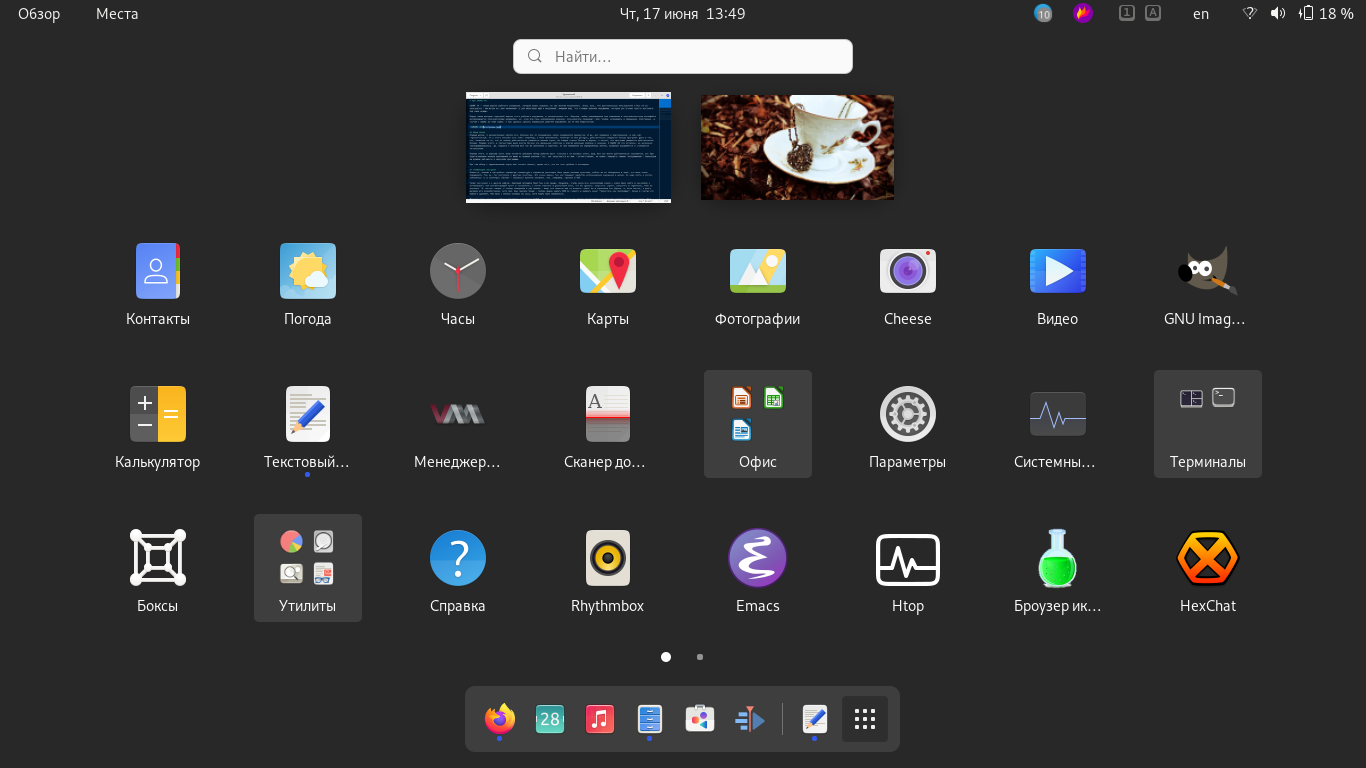
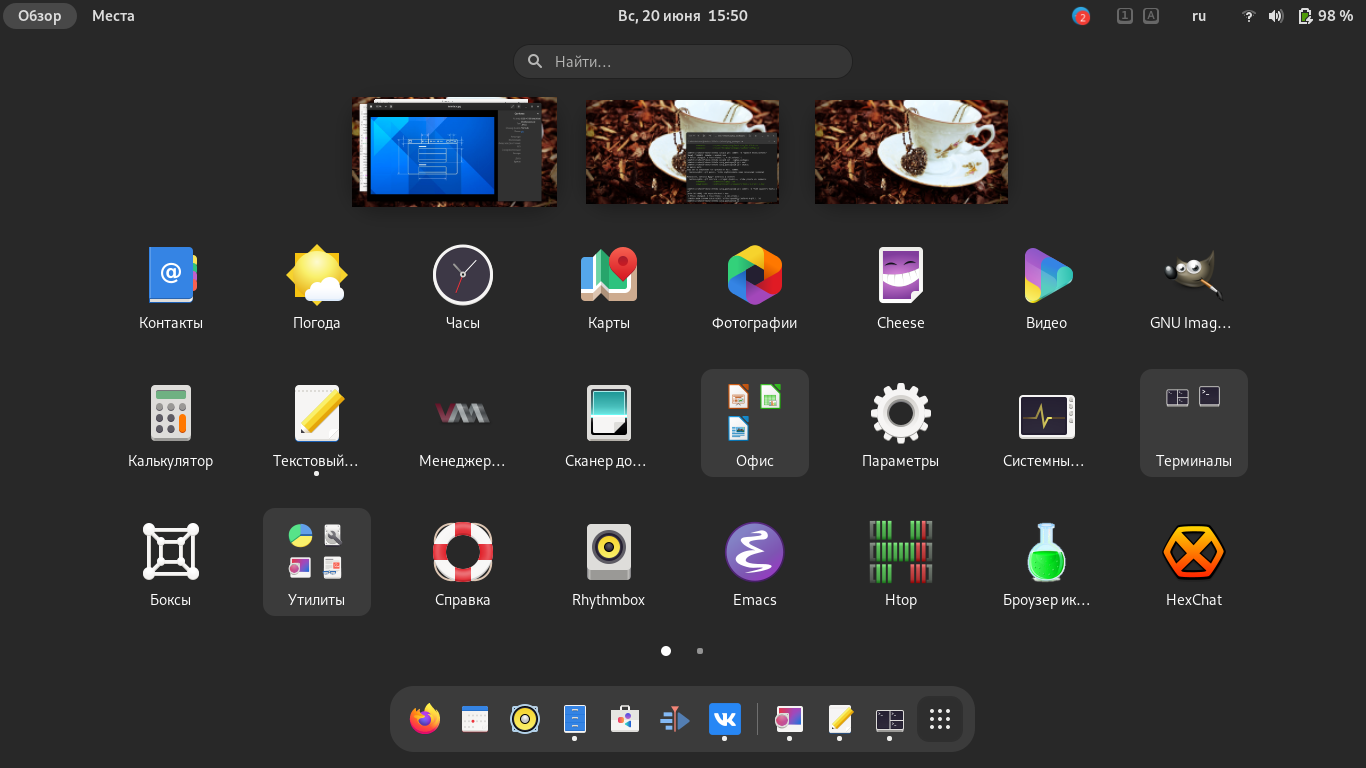
Различные дополнения и исправления статьи о GNOME 40; исправления статей о строении Linux; добавление раздела о сотрудничестве; добавление информации о пользователях

diff --git a/stats/GNOME/gnome.md b/stats/GNOME/gnome.md
@@ -2,12 +2,13 @@
 
 GNOME 40 - новая версия рабочего окружения, которая вышла недавно, но уже многим понравилась. Очень жаль, что русскоязычные пользователи Linux ей не пользуются - несмотря на свой необычный (а для некоторых ещё и неудобный) внешний вид, это стоящее рабочее окружение, которое достаточно просто настроить под свои нужды.
 
-Перед самым выходом сороковой версии этого рабочего окружения, я раскритиковал его. Впрочем, любые нововведения или изменения в пользовательском интерфейсе воспринимаются пользователями враждебно, но, если всё-таки нововведение удачное, пользователи прерывают свой галдёж, освоившись и привыкнув. Собственно, в случае с GNOME 40 тоже самое. У них удалось сделать нормальное рабочее окружение, но не без недостатков.
+Перед самым выходом сороковой версии этого рабочего окружения, я раскритиковал его. Впрочем, любые нововведения или изменения в пользовательском интерфейсе воспринимаются пользователями враждебно, но, если всё-таки нововведение удачное, пользователи прерывают свой галдёж, освоившись и привыкнув. Они привыкают к чему-то одному, а большего им и не надо. Собственно, в случае с GNOME 40 тоже самое. У них удалось сделать нормальное рабочее окружение, но не без недостатков.
 
 ![GNOME 40](pic/gnome.jpg)
 
 ## Меню "Обзор"
-Первым делом, я раскритиковал именно его. Сначала мне не понравилась смена направления прокрутки. И да, все привыкли к вертикальной, а нам суют горизонтальную. Но у этого способа есть плюс: например, в меню приложений, несмотря на мои догадки, действительно умещается больше программ. Дело в том, что, несмотря на то, что на экране действительно умещается меньше строк, но каждая строка больше в ширину, а значит, что программ умещается действительно больше. Помимо этого, в третьегноме меня всегда бесили эти маленькие короткие и всегда урезаные подписи к значкам. В GNOME 40 это осталось, но несколько трансформировалось. Да, подписи к значкам всё такие же урезанные и короткие, но при наведении на определённый значок, название расширяется и становится читабельным.
+
+Первым делом, я раскритиковал именно его. Сначала мне не понравилась смена направления прокрутки. И да, все привыкли к вертикальной, а нам суют горизонтальную. Но у этого способа есть плюс: например, в меню приложений, несмотря на мои догадки, действительно умещается больше программ. Дело в том, что, несмотря на то, что на экране действительно умещается меньше строк, но каждая строка больше в ширину, а значит, что программ умещается действительно больше. Например, на экране 1366х768 сетка меню получилась 3х8. Помимо этого, в третьегноме меня всегда бесили эти маленькие короткие и всегда урезаные подписи к значкам. В GNOME 40 это осталось, но несколько трансформировалось. Да, подписи к значкам всё такие же урезанные и короткие, но при наведении на определённый значок, название расширяется и становится читабельным.
 
 ![Иконки](pic/icon.png)
 *Вверху иконка до того, как на неё навели мышкой, внизу - после*
@@ -18,7 +19,7 @@ GNOME 40 - новая версия рабочего окружения, кото
 
 Про сам обзор с переключением задач мне сказать нечего, кроме того, что он стал удобнее и нагляднее. Как и раньше, в обзоре находятся превью открытых окон. Но теперь это не обзор открытых задач, а обзор всех рабочих мест! Переключение между рабочими местами стало намного удобнее - не нужно лезть в боковое меню с ними, чтобы увидеть, какие программы располагаются на нём. Достаточно прокрутить влево или вправо и всё становится видно. Отображается непрерывная лента рабочих мест, на которых расположены превью открытых окон. В нижней части превью расположили иконку приложения (внизу посередине), а при наведении на окно оно немного увеличивается в размерах и внизу показывается его имя.
 
-![Обзор активности](pic/menu1.png)
+![Обзор активности](pic/activities1.png)
 
 ## Унификация настроек
 Помнится, раньше в настройках параметры клавиатуры и параметры раскладки были двумя разными пунктами, сейчас же их объединили в один, что меня очень порадовало. Так же, так поступили с другими пунктами. Это очень важно, так как повышает удобство использования окружения в целом. Не надо лазить в сотнях непонятных (а в некоторых случаях - ненужных) пунктов настроек, как, например, сделано в KDE.
@@ -33,14 +34,20 @@ GNOME 40 - новая версия рабочего окружения, кото
 
 Хотя и то, что разработчики GNOME "прячут" от пользователей банальные настройки смены темы оформления (к примеру) ещё с третьей версии этого DE - это огорчает. Например, они же разрабатывают тему оформления Adwaita в двух расцветках - светлой и тёмной (Adwaita и Adwaita Dark соответственно). Так почему бы в настройки не добавить пункт, предположим, "Тема оформления", где поместить переключалку между светлой и тёмной темами? Хотя бы только это, я не говорю про что, что установил пользователь... И было бы намного лучше. Но, видимо, им этого не понять.
 
+> Кстати, в Ubuntu Linux так сделали. Вот это очень неплохо. Хотя сам дистрибутив мне не нравится.
+
 ## Современный внешний вид и опыт взаимодействия человека с рабочим окружением
 
 ![https://blogs.gnome.org/tbernard/2021/03/22/drawing-mockups/](pic/interface.jpg)
 *Изображение было взято [отсюда](https://blogs.gnome.org/tbernard/2021/03/22/drawing-mockups/)*
 
-Разработчики GNOME с неваднего времени начали "осовременнивать" внешний вид окружения. То обновят тему иконок: в GNOME 3.36 ещё встречались иконки со второго гнома, а в 3.38 иногда проскакивали иконки с первых версий GNOME 3, но в сороковом произвели серьёзный редизайн и всё выглядит так, как и должно быть. Единственное - не нравятся жирный шрифт и жирные иконки в панели управления системой, жирные иконки заголовков и боковых панелей окон. На мой взгляд, это ужасно. Кстати, я предпочитаю тему Yary-remix (найдите её в [интернете](www.google.com)), там всё нормально)).
+Разработчики GNOME с неваднего времени начали "осовременнивать" внешний вид окружения. То обновят тему иконок: в GNOME 3.36 ещё встречались иконки со второго гнома, а в 3.38 иногда проскакивали иконки с первых версий GNOME 3, но в сороковом произвели серьёзный редизайн и всё выглядит так, как и должно быть. Конечно, местами дизайн ещё напоминает старый, например, список устройств в меню "Другие места", но это встречается всё реже и реже, да и привести огромную махину к одному знаменателю довольно сложно, учитывая ещё то, что рабочим окружением GNOME занимается сообщество, а не какие-то большие корпорации.
 
-Насчёт фона в меню обзора. Тут очен спорно - с одной стороны, на это редко когда смотришь, да и привык я к этому очень быстро, а вот с другой - это скучно. Хотя в обзор я захожу редко, да и привык к этому, поэтому мне на это пофигу. В любом случае, фон можно или заблюрить, или сделать полностью прозрачным (расширение Blur My Shell в помощь).
+![Nautilus](pic/nautilus.md)
+
+Так же не нравятся жирный шрифт и жирные иконки в панели управления системой, жирные иконки заголовков и боковых панелей окон. На мой взгляд, это ужасно. Хотя это ИМХО - кому-то нравится, кому-то нет. Кстати, я предпочитаю тему Yary-remix (найдите её в [интернете](www.google.com)), там всё нормально)).
+
+Насчёт фона в меню обзора. Тут очен спорно - с одной стороны, на это редко когда смотришь, да и привык я к этому очень быстро, а вот с другой - это скучно. Хотя в обзор я захожу редко, да и привык к этому, поэтому мне на это пофигу. В любом случае, фон можно или заблюрить, или сделать полностью прозрачным (расширение Blur My Shell в помощь). А так как "мода всегда возвращается", то неудивительно, что убрали фон. Если раньше все делали всё тёмным и непрозрачным, а с середины двухтысячных наоборот - всё свистит, пердит и переливается, то сейчас всё становится так, как раньше.
 
 Но "современный" - не значит удобный и красивый. Интерфейс некоторых приложений стал ещё хуже. Например, Gnome Weather. Раньше было прекрасное красивое приложение. А сейчас какое-то унылое говно.
 
@@ -57,17 +64,19 @@ GNOME 40 - новая версия рабочего окружения, кото
 Ну и расположение дока. Оно, конечно, логично и предсказуемо - если сменили направление прокрутки в "обзоре" на горизонтальную, то док должен быть именно снизу экрана и иметь горизонтальное расположение. Но это не очень удобно, так как нужно тянуться из верхнего левого угла экрана (где вход в "Обзор") почти в правый нижний, где вход в меню. Владельцам ноутбуков это не очень удобно. Хотя можно поступить проще: на любой вкус несколько сочетаний клавиш для входа в меню. Тут и два раза нажать на *Super*, и *Super+A*, и *Super+Alt+2 раза на стрелку вверх*...
 
 ## Надёжность
-GNOME 40, на удивление, оказался очень надёжным. Никаких падений и отчётов. Кроме единоразового падения `gjs`, но это вызвало пару проблем с одним из расширений. И даже предварительные версии GNOME 40 порадовали своей стабильной работой.
+GNOME 40, на удивление, оказался очень надёжным. Никаких падений и отчётов. Кроме единоразового падения `gjs`, но это вызвало пару проблем с одним из расширений (Desktop Icons NG). И даже предварительные версии GNOME 40 порадовали своей стабильной работой.
 
 Помимо этого, рабочее окружение работает достаточно быстро даже на оборудовании 2013 года. Хотя там железо довольно бодрое и на 2021 год, но всё равно я считаю это неплохим результатом. Если сравнивать с предыдущими версиями - была проведена отличная работа по чистке кода от неиспользуемых конструкций, багов и прочего говна, а так же проведена неплохая оптимизация. И GNOME с версии 3.36 только хорошеет в плане быстрой работы и малого потребления ОЗУ.
 
 ![О системе](pic/about-system.png)
 
-А сейчас у меня отпуск, и ноутбук на даче не выключается часами. Работает или от АКБ, или от зарядки (кстати, от АКБ на Fedora Linux не очень долго держится - каких-то два часа). Даже тогда, когда меня нет дома. Хотя когда я прихожу домой, то ноут активно используется. И опять же - падений рабочего окружения я не заметил, чего не скажешь о KDE. Помню, они кукарекали всё, мол, мы такие молодцы и спёрли у GNOME 3.30 адаптивную прозрачность панелей. Я этого не заметил. А настройки как были непонятным и запутанным куском говна, так и остались. А проблемы стабильности и надёжности их мало интересуют, видимо.
+А сейчас у меня отпуск, и ноутбук на даче не выключается часами. Работает или от АКБ, или от зарядки (кстати, от АКБ на Fedora Linux не очень долго держится - каких-то два часа). Даже тогда, когда меня нет дома. Хотя когда я прихожу домой, то ноут активно используется. И опять же - падений рабочего окружения я не заметил, чего не скажешь о KDE. Всё так же падает.
+
+Помню, они кукарекали всё, мол, мы такие молодцы и спёрли у GNOME 3.30 адаптивную прозрачность панелей. Я этого не заметил. А настройки как были непонятным и запутанным куском говна, так и остались. А проблемы стабильности и надёжности их мало интересуют, видимо.
 
 ![Аптайм](pic/uptime.png)
 
-Но, буквально в день написания статьи, появилась проблема с изменением размера окна. Очень дёрганые анимации разворачивания и возвращения в исходный размер окна. Это возникает с Nautilus и Gedit - две этих программы я использую чаще всего. Никаких логов и прочего нет и узнать, что случилось, невозможно. Хотя я подозреваю, что что-то с конфигами - на другом пользователе этой проблемы нет.
+Но, буквально в день написания статьи, появилась проблема с изменением размера окна. Очень дёрганые анимации разворачивания и возвращения в исходный размер окна. Это возникает с Nautilus и Gedit - две этих программы я использую чаще всего. Никаких логов и прочего нет и узнать, что случилось, невозможно. Хотя я подозреваю, что что-то с конфигами - на другом пользователе этой проблемы нет. С остальными же программами всё нормально. Это проявляется на устаревшем и ненужном Xorg, на Wayland всё отлично.
 
 ## Выводы
 Рабочее окружение GNOME Shell 40 мне понравилось. Несмотря на недостатки, оно намного лучше третьей версии. Разработчики провели большую работу не только над портированием GNOME на GTK4, но и добавили новые функции. Да и привели рабочее окружение в нормальное состояние.
@@ -80,6 +89,6 @@ GNOME 40, на удивление, оказался очень надёжным.
 
 Недостатки:
 * некоторые расширения перестали работать, впрочем, их портирование на GNOME 40 - дело времени
-* у некоторых приложений со временем возникают проблемы с эффектами разворачивания и возвращения в предыдущее состояние окна
+* у некоторых приложений со временем возникают проблемы с эффектами разворачивания и возвращения в предыдущее состояние окна на Xorg
 
 Удачи!

diff --git a/Group/calmira.md b/Group/calmira.md
@@ -3,11 +3,11 @@
 Усилиями нашего сообщества разрабатывается Calmira GNU/Linux.
 
 Это легковесный независимый дистрибутив со своей пакетной базой.
-Пакетный менеджер `cpkg`, пришедший на смену менее надёжному и простому `cpkg-tools`, находится пока в зачаточном состоянии.
+Пакетный менеджер `cpkg`, пришедший на смену менее надёжному и простому `cpkg-tools`, находится на стадии бета-тестирования.
 
 Главная особенность дистрибутива - его малый размер и неприхотливость. Для работы ему будет достаточно процессора Intel Atom, оперативной памяти объёмом от 30 Мб и жёсткого диска от 2-3 Гб.
 
-Пакетный менеджер `cpkg` (релиз Calmira 2021.2), пришедший на смену `cpkg-tools` из релиза Calmira 2021.1, содержит множество изменений. Тут и более стабильная работа, и хорошая работа с зависимостями, а так же меньшая разрозненность. Установка и удаление ПО теперь следует одним и тем же правилам.
+Пакетный менеджер `cpkg` (релиз Calmira 2021.2) содержит множество изменений. Тут и более стабильная работа, и хорошая работа с зависимостями, а так же меньшая разрозненность. Установка и удаление ПО теперь следует одним и тем же правилам.
 
 ## Идеология, следование принципам
 Дистрибутив старается следовать стандартам FHS и LSB в первую очередь. Помимо этого, дистрибутив следует принципу KISS. В Calmira всё решает пользователь. Как ставить, куда ставить и что ставить. Как пользоваться дистрибутивом. Так же вы можете без каких-либо проблем делать сборки на основе Calmira.
@@ -20,16 +20,15 @@
 sudo mkdir /mnt/calmira           # Создание точки монтирования
 sudo mount /dev/sdX /mnt/calmira  # Монтирование раздела
 export SYSTEM=/mnt/calmira
-cd $SYSTEM
 ```
 
 Потом распакуйте образ с системой:
 ```bash
-sudo unsquashfs /путь/до/образа/calmira_$VERSION_$BUILD.sqsh
+sudo unsquashfs /путь/до/образа/calmira_$VERSION.sqsh
+cp -rv squashfs-root/* $SYSTEM
 ```
 
 * `$VERSION` - версия дистрибутива
-* `$BUILD` - версия билда дистрибутива
 
 > Например, `calmira_2021.2_build2.sqsh`.
 
@@ -43,10 +42,8 @@ sudo unsquashfs /путь/до/образа/calmira_$VERSION_$BUILD.sqsh
 |:-------|:------------|:----------|:------------|
 | 2021.1 | Orion       | ---       | 28.05.2021  |
 | 2021.2 | Andromeda   | замена `cpkg-tools` на `cpkg`, пересборка `gmp`, добавление новых функций | 28.05.2021 |
-| 2021.3 | Andromeda   | добавление в пакетный менеджер `cpkg` новых фукций, таких как сборка пакета из исходников, очистка кеша, скачивание пакета из исходных текстов; повышение стабильности как пакетного менеджера, так и дистрибутива в целом | Запланоровано на конец 2021 |
-| 2022.1 | Cassiopeia  | добавление опциональных бинарных пакетов, повышение стабильности, улучшение пакетного менеджера `cpkg`, добавление `SysConf` для настройки системы и некоторых пакетов (аналог `dpkg-reconfigure` из Debian), возможность обновления системы посредством пакетного менеджера (раньше была возможность пересборки пакетов или установки бинарных, но не обновление пакетным менеджером) | Запланировано на 2022 г. (дата не определена)|
-
-[Road Map](https://github.com/Linuxoid85/CalmiraLinux/blob/2021.2/docs/roadmap.md)
+| 2021.3 | Andromeda   | добавление в пакетный менеджер `cpkg` новых фукций, таких как сборка пакета из исходников, очистка кеша, скачивание пакета из исходных текстов; повышение стабильности как пакетного менеджера, так и дистрибутива в целом; замена некоторых инструментов coreutils на более совершенные аналоги; другие незначительные изменения | 01.11.2021 |
+| 2022.1 | Cassiopeia  | добавление опциональных бинарных пакетов, повышение стабильности, улучшение пакетного менеджера `cpkg`, возможность обновления системы посредством пакетного менеджера (раньше была возможность пересборки пакетов или установки бинарных, но не обновление пакетным менеджером) | Запланировано на 2022 г. (дата не определена)|
 
 ## Контакты
 * E-mail разработчика: <linuxoid85@gmail.com>

diff --git a/stats/LFS/LinuxStr.md b/stats/LFS/LinuxStr.md
@@ -77,7 +77,7 @@
 ### Процесс загрузки
 В данной статье я пропущу загрузку ПК, BIOS, UEFI и прочее, ибо это не тема этой статьи. А начну с `загрузчика`, коих много. Но самый распространённый - `GRUB2`.
 
-Задача загрузчика - инициализировать ядро Linux (в нашем случае). В помощь ядру загрузчик обычно использует начальный образ загрузки - `initrd` или `initfarms`, представляющий собой архив с образом файловой системы, разворачивающейся в ОЗУ в начале загрузки. В `initrd`/`initfarms` находятся нужные драйверы, скрипты и прочее, что необходимо для инициальзации оборудования и прочих целей.
+Задача загрузчика - инициализировать ядро Linux (в нашем случае). В помощь ядру загрузчик обычно использует начальный образ загрузки - `initrd` или `initramfs`, представляющий собой архив с образом файловой системы, разворачивающейся в ОЗУ в начале загрузки. В `initrd`/`initfarms` находятся нужные драйверы, скрипты и прочее, что необходимо для инициальзации оборудования и прочих целей.
 
 ***
 После начального образа загружается ядро. Находится в `/boot`, в своём названии имеет `vmlinuz`:

diff --git a/stats/LFS/LinuxStr.prewiew.md b/stats/LFS/LinuxStr.prewiew.md
@@ -2,7 +2,7 @@
 
 В этом цикле собраны статьи о строении дистрибутива GNU/Linux. Этот цикл постоянно дополняется и изменяется. Совершенствуется.
 
-На данный момент, представлены статьи об общем строении (главные понятия), права доступа на файлы, принцип "всё есть файл" и строение ELF-файла.
+На данный момент, представлены статьи об общем строении (главные понятия), права доступа на файлы, принцип "всё есть файл" и строение ELF-файла. Постепенно этот список будет пополняться новыми статьями.
 
 Практическая польза близка к нулю, однако этот цикл будет полезен тем, кто хочет иметь примерное представление о работе с ОС.
 
@@ -11,8 +11,6 @@
 * [Часть 2 - принцип "всё есть файл"](LinuxStr2/LinuxStr2.md)
 * [Часть 3 - права доступа](LinuxStr3/LinuxStr3.md)
 * [Часть 4 - строение ELF файла](LinuxStr4/LinuxStr4.md)
-
-> Данный список будет дополняться и изменяться!
 
 ## Пожелания, жалобы, предложения и вопросы
 

diff --git a/Group/authors.md b/Group/authors.md
@@ -1,0 +1,11 @@
+# Сотрудничество
+
+Нам требуются авторы и редакторы! Так как один человек просто физически не может целыми днями сидеть за компьютером и писать статьи, то нужно несколько человек которые будут писать или редактировать (исправлять, дополнять) статьи.
+
+Для того, чтобы вступить в команду LinuxSovet, отправляйте свои статьи [сюда](mailto:linuxoid85@gmail.com). Документ должен быть в формате `Markdown` и упакован в архив `tar.xz`. Обязательно прикрепите имя/ник автора!
+
+Некоторым читателям захочется отправить нам пожертвование. В таблице ниже представлены контакты всех авторов статей на сайте:
+
+| Автор      | Номер телефона/карты |
+|------------|----------------------|
+| [Linuxoid85](authors.d/Linuxoid85.md) | 89045971349          |

diff --git a/README.md b/README.md
@@ -65,7 +65,10 @@
 
 ### Скачивание
 Текущий билд вы можете скачать из таблицы выше. А так же зайдите на [GitHub](https://github.com/Linuxoid85/CalmiraLinux) проекта, чтобы следить за последними новостями.
- 
+
+## Сотрудничество
+Нам требуются авторы! Пишите статьи о строении, настройке и работе с GNU/Linux, если вы хотите, чтобы сообщество развивалось быстрее! О сотрудничестве читайте [здесь](Group/authors.md).
+
 ***
 
 В декабре 2020 нам исполнился год!

diff --git a/Group/authors.d/Linuxoid85.md b/Group/authors.d/Linuxoid85.md
@@ -1,0 +1,8 @@
+# Профиль пользователя Linuxoid85
+
+| Поле                                                       | Значение  |
+|------------------------------------------------------------|-----------|
+| Статус пользователя                                        | Модератор |
+| Опыт работы с Linux-системами                              | 11 лет    |
+| Сколько времени не работает с Windows на постоянной основе | 7 лет     |
+| Сколько лет в сообществе                                   | 1.5 года  |

diff --git a/stats/GTK/prepare/install.md b/stats/GTK/prepare/install.md
@@ -16,5 +16,4 @@ sudo dnf install gtk4-devel
 ***
 [Назад - введение](https://linuxoid85.github.io/LinuxSovet/stats/GTK/)
 --*--
-
 [Далее - написание первого приложения](https://linuxoid85.github.io/LinuxSovet/stats/GTK/prog/gtk1.html)
